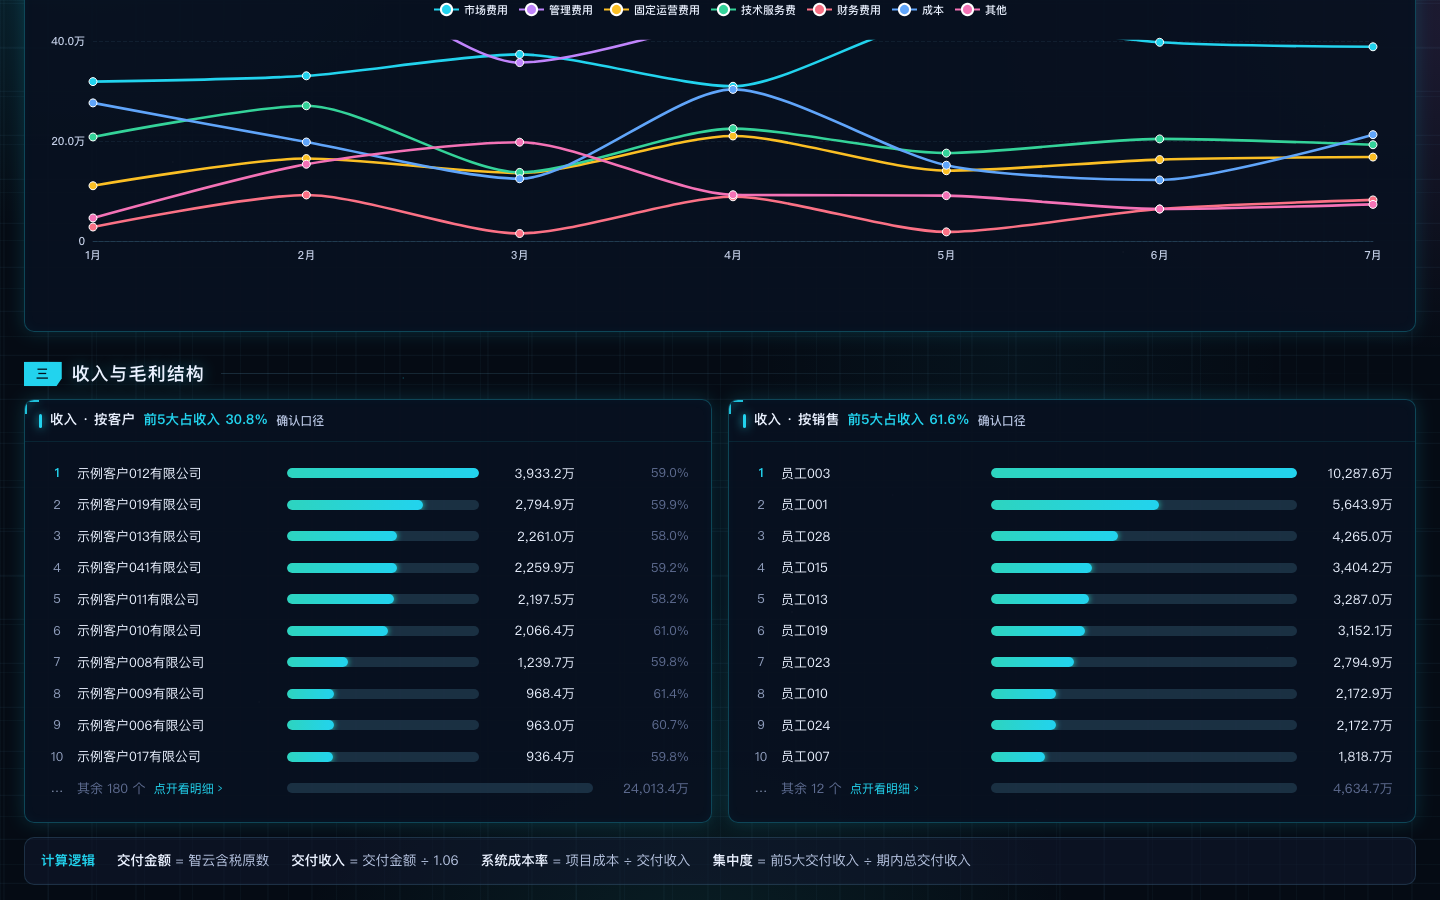
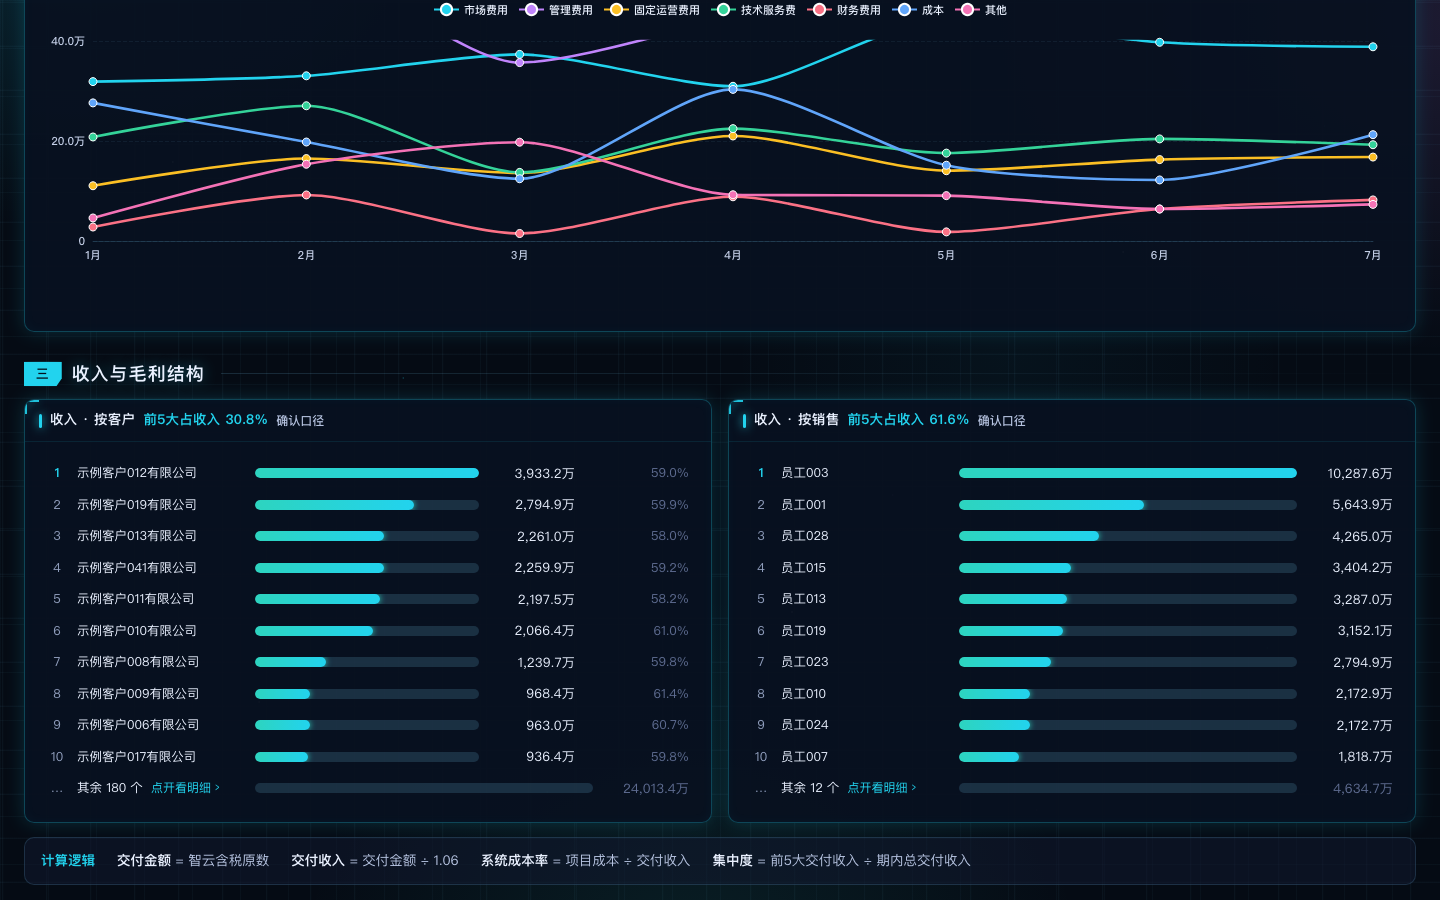
fix(54.5): 范围收口——名列加宽迁 scifi-bridge；revert theme.css；亮色找茬重写

diff --git a/static/css/theme.css b/static/css/theme.css
@@ -192,8 +192,7 @@ body{
 .pr-grid .card-h .conc b{font-size:17px;font-weight:800;color:var(--accent);
   font-family:var(--mono,inherit);letter-spacing:.3px}
 .pr-grid .rk-no{font-size:12.5px}
-/* 54.5：客户名 120px 截断复发 → 加宽，宁短轨条不截名（title 仍有全名） */
-.pr-grid .ev-name{flex:0 1 200px;min-width:140px;max-width:240px;font-size:13px}
+.pr-grid .ev-name{flex-basis:120px;font-size:13px}
 .pr-grid .ev-amt{flex-basis:86px;font-size:13px}
 .pr-grid .rk-meta{flex-basis:104px;font-size:12.5px}  /* 容「项目毛利率 100%」 */
 .pr-grid .rk-open{font-size:12px}
@@ -661,8 +660,7 @@ svg path.donut-seg{stroke:var(--bg);stroke-width:2;paint-order:stroke fill}
 .ev-list{max-height:300px;overflow-y:auto;padding:4px 2px}
 .ev-row{display:flex;align-items:center;gap:10px;padding:5px 6px;border-radius:7px;cursor:pointer}
 .ev-row:hover{background:rgba(139,92,246,.08)}
-/* 54.5 找茬：默认名列加宽，避免「有限…」半截难辨 */
-.ev-name{flex:0 1 168px;min-width:120px;font-size:12.5px;color:var(--ink);white-space:nowrap;overflow:hidden;text-overflow:ellipsis}
+.ev-name{flex:0 0 120px;font-size:12.5px;color:var(--ink);white-space:nowrap;overflow:hidden;text-overflow:ellipsis}
 .ev-track{flex:1;height:10px;border-radius:5px;background:var(--line);overflow:hidden}
 .ev-track i{display:block;height:100%;border-radius:5px;background:linear-gradient(90deg,var(--teal),var(--blue));
  box-shadow:0 0 6px var(--teal)}

diff --git a/docs/pixel/vue54p5/home_light_1440/findings.md b/docs/pixel/vue54p5/home_light_1440/findings.md
@@ -1,20 +1,23 @@
-# 找茬记录 · home_light_1440
+# 找茬记录 · 主页亮色 1440
 
-视口 `viewport.png` / `after.png`（亮色主题）。
+视口：`viewport.png`（1440×900）。对照暗色同屏 + V1/V2/V6。
 
-## 茬 1 · 主题切换是否生效
-- **我看到了什么**：浅色底、白卡片、深字。
-- **挑出了什么茬**：无（亮暗切换后即时生效）。
+## 茬 1 · 亮色底是否脏 / 字是否够黑
+
+- **我看到了什么**：浅灰底 + 白卡片；标题「甲骨易 智能经营罗盘」深字；KPI 大数字约 45,943.1 与副文案（交付收入/毛利率）对比清晰，不是浅字压浅底。
+- **挑出了什么茬**：对照 V5「亮主题不脏底」— 网格淡、无脏星点；无回归。
+- **改了什么**：无（确认保留 54.4 静态背景策略）。
+
+## 茬 2 · 五卡是否仍一排
+
+- **我看到了什么**：下单 / 交付金额 / 管理毛利 / 税前利润 / 回款 **五卡横排**，圆角浅描边；第一卡「未设目标」琥珀色可见。
+- **挑出了什么茬**：V2 亮色 1440 仍为五列，未塌成两列；无。
 - **改了什么**：无。
 
-## 茬 2 · 对比度（V1/V6 亮主题）
-- **我看到了什么**：标题编号实底、KPI 大数字与副文案可读。
-- **挑出了什么茬**：无「浅字浅底」回归。
-- **改了什么**：无。
+## 茬 3 · 趋势图标签（亮色下）
 
-## 茬 3 · 布局
-- **我看到了什么**：与暗色同构（五卡/单列/管理端壳）。
-- **挑出了什么茬**：无溢出/错位。
-- **改了什么**：无。沿用暗色全局修。
+- **我看到了什么**：「收入 · 毛利趋势」柱顶数字 + 黄线毛利率 %；1–7 月有数、8–12 月空轴；右侧管理利润表行铺满、「查看构成 ›」可辨。
+- **挑出了什么茬**：沿用暗色修（成本柱不标数）后，亮色下柱顶与黄点不叠成一团；右表「管理毛利」行浅青底高亮正常。
+- **改了什么**：无（全局 TrendChart 已在暗色屏修完）。
 
-**结论**：亮色并排对照后无差异。
+**结论**：亮色 1440 视口与暗色同构为**看端**五卡+趋势+利润表（非管理端壳）；并排对照后无新增返修。

diff --git a/docs/pixel/vue54p5/home_light_375/findings.md b/docs/pixel/vue54p5/home_light_375/findings.md
@@ -1,20 +1,23 @@
-# 找茬记录 · home_light_375
+# 找茬记录 · 主页亮色 375
 
-视口 `viewport.png` / `after.png`（亮色主题）。
+视口：`viewport.png`（375×812）。对照暗色 375 + V2/V8。
 
-## 茬 1 · 主题切换是否生效
-- **我看到了什么**：浅色底、白卡片、深字。
-- **挑出了什么茬**：无（亮暗切换后即时生效）。
+## 茬 1 · 顶栏控件挤不挤
+
+- **我看到了什么**：标题单独一行；下一行「2026年 ▾ / 亮暗 / 退出 / 密码」四控件横排在 375 宽内完整可见，未裁字、未叠。
+- **挑出了什么茬**：暗色 375 曾双行折顶栏；亮色本图顶栏控件仍单行排布、间距够点；无横向溢出感。
 - **改了什么**：无。
 
-## 茬 2 · 对比度（V1/V6 亮主题）
-- **我看到了什么**：标题编号实底、KPI 大数字与副文案可读。
-- **挑出了什么茬**：无「浅字浅底」回归。
+## 茬 2 · KPI 是否单列（应降列）
+
+- **我看到了什么**：KPI **单列堆叠**——下单 → 交付金额 → 管理毛利 → 税前利润（底部半出视口）；卡片白底、青左边条。
+- **挑出了什么茬**：V2 要求窄屏降列——此处正确为 1 列，**不是**五卡一排。
 - **改了什么**：无。
 
-## 茬 3 · 布局
-- **我看到了什么**：与暗色同构（五卡/单列/管理端壳）。
-- **挑出了什么茬**：无溢出/错位。
-- **改了什么**：无。沿用暗色全局修。
+## 茬 3 · 字号与「未设目标」
 
-**结论**：亮色并排对照后无差异。
+- **我看到了什么**：大数字可读；下单卡「示意BU甲 / 未设目标」琥珀色不发糊；「一 基本情况」编号方块实底。
+- **挑出了什么茬**：无眯眼才看清；无图表区（本视口未滚到图，符合手机首屏以 KPI 为主）。
+- **改了什么**：无。
+
+**结论**：亮色 375 是**看端**单列 KPI + 紧凑顶栏；与管理端壳无关。并排对照后无差异需本屏专改。

diff --git a/docs/20260718_任务书54.5交付报告.md b/docs/20260718_任务书54.5交付报告.md
@@ -3,7 +3,7 @@
 - **日期**：2026-07-18  
 - **仓库**：`程序/看板正式程序/`  
 - **纪律**：只 commit 不 push；tag **`stage54p5`**  
-- **范围**：仅 `frontend/` 样式/模板/主题 + 本单截图/报告；未碰后端算账 / golden 基线 / legacy static / config 口径 / 新依赖  
+- **范围**：仅 `frontend/` 样式/模板/主题（含 vendored `scifi-bridge.css`）+ 本单截图/报告；**未改** `static/css/theme.css`（曾误改已 revert）/ 后端算账 / golden 基线 / legacy 壳 / config 口径 / 新依赖
 
 ---
 
@@ -22,7 +22,7 @@
 
 | 文件 | 改了什么 |
 |------|----------|
-| `static/css/theme.css` | 排名/结构名列加宽（防「有限…」截断） |
+| `frontend/src/vendor/scifi-kit/scifi-bridge.css` | 排名/结构名列加宽（覆盖 theme 默认 120px；**In=frontend**） |
 | `frontend/src/components/TrendChart.vue` | 趋势图只标收入柱顶+毛利率；成本标关；grid.top↑ |
 | `frontend/src/components/ExpenseTrend.vue` | 多系列点标默认关（tooltip/图例） |
 | `frontend/src/components/LedgerTable.vue` | 日期展示去 `00:00:00` |

diff --git a/docs/pixel/vue54p5/home_dark_1440/findings.md b/docs/pixel/vue54p5/home_dark_1440/findings.md
@@ -6,7 +6,7 @@
 
 - **我看到了什么**：板块③「收入·按客户」行名显示为 `示例客户012有限…`，末字被 ellipsis 吃掉，需悬停 title 才见全名。
 - **挑出了什么茬**：`.ev-name`/`pr-grid` 固定 120px 过窄，与 54.1 排名「行名不截断」口味冲突。
-- **改了什么**：`static/css/theme.css` 将 `.pr-grid .ev-name` 加宽至 min140/flex200；通用 `.ev-name` 加宽至 168px。复测 DOM：`示例客户012有限公司` 完整可见（w=200）。
+- **改了什么**：名列加宽写在 **`frontend/.../scifi-bridge.css`**（In 范围；theme.css 已 revert 不动）。复测 DOM：`示例客户012有限公司` 完整、无省略号（见 `after_names.png`）。
 
 ## 茬 2 · 趋势图柱顶标签三重叠
 